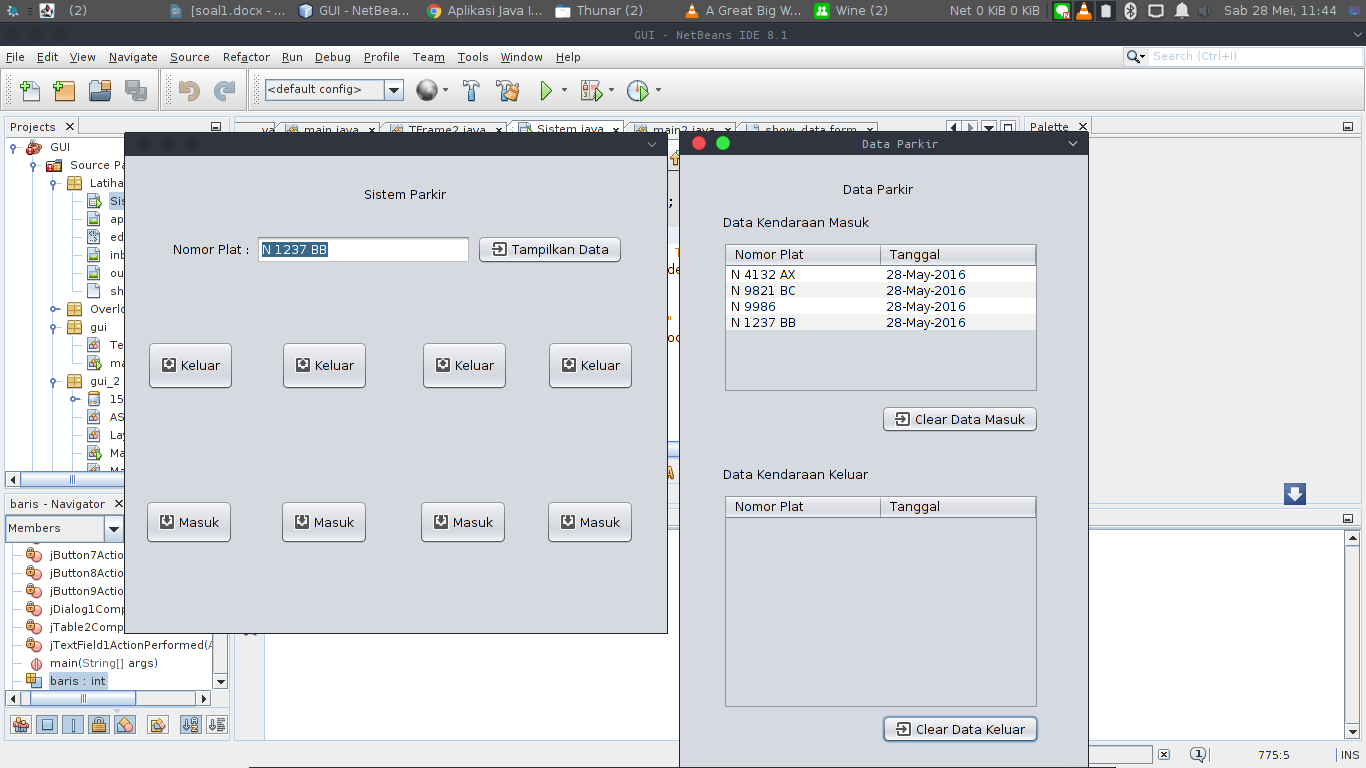
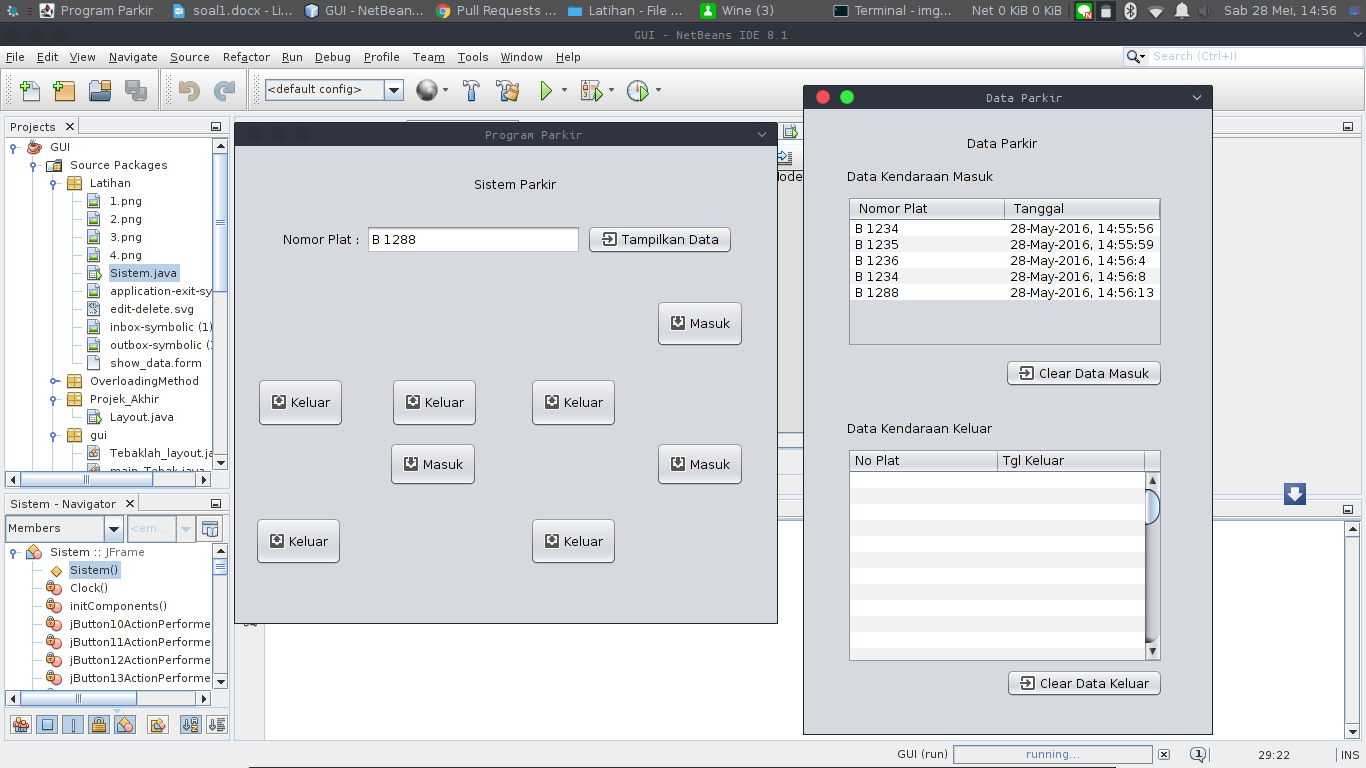
155150201111323_Immanuel Sibarani

diff --git a/Sistem.java b/Sistem.java
@@ -12,19 +12,24 @@ package Latihan;
 import javax.swing.table.DefaultTableModel;
 import java.text.SimpleDateFormat;
 import java.util.Calendar;
+import java.util.Date;
 
 public class Sistem extends javax.swing.JFrame {
-
+   
     String plat[] = new String[8];
     String tanggal[] = new String[8];
     SimpleDateFormat date = new SimpleDateFormat("d-MMM-yyy");
     Calendar calendar = Calendar.getInstance();
+    String time [] = {"","","","","","","",""};
+    String timex;
 
     /**
      * Creates new form Sistem
      */
     public Sistem() {
         initComponents();
+         setTitle("Program Parkir");
+        
     }
 
     /**
@@ -531,15 +536,25 @@ public class Sistem extends javax.swing.JFrame {
         jButton16.setVisible(true);
         jButton14.setVisible(false);
         tanggal[6] = date.format(calendar.getTime());
-        mdl.addRow(new Object[]{plat[6], tanggal[6]});
+        Clock();
+        time[6]=timex;
+        mdl.addRow(new Object[]{plat[6],tanggal[6]+", "+time[6]});
         jTable1.setModel(mdl);
     }//GEN-LAST:event_jButton14ActionPerformed
-
+        private void Clock() {
+        calendar.setTimeInMillis(System.currentTimeMillis());
+        int hours = calendar.get(Calendar.HOUR_OF_DAY);
+        int minutes = calendar.get(Calendar.MINUTE);
+        int seconds = calendar.get(Calendar.SECOND);
+        timex = String.valueOf(hours+":"+minutes+":"+seconds);
+    } 
     private void jButton13ActionPerformed(java.awt.event.ActionEvent evt) {//GEN-FIRST:event_jButton13ActionPerformed
 
         jButton11.setVisible(true);
         jButton13.setVisible(false);
-        mdl2.addRow(new Object[]{plat[5], tanggal[5]});
+        Clock();
+        time[0]=timex;
+        mdl2.addRow(new Object[]{plat[5],tanggal[5]+", "+time[5]});
         jTable2.setModel(mdl2);
 
     }//GEN-LAST:event_jButton13ActionPerformed
@@ -549,7 +564,9 @@ public class Sistem extends javax.swing.JFrame {
         jButton12.setVisible(true);
         jButton10.setVisible(false);
         tanggal[4] = date.format(calendar.getTime());
-        mdl.addRow(new Object[]{plat[4], tanggal[4]});
+        Clock();
+        time[4]=timex;
+        mdl.addRow(new Object[]{plat[4],tanggal[4]+", "+time[4]});
         jTable1.setModel(mdl);
     }//GEN-LAST:event_jButton10ActionPerformed
 
@@ -558,7 +575,9 @@ public class Sistem extends javax.swing.JFrame {
         jButton13.setVisible(true);
         jButton11.setVisible(false);
         tanggal[5] = date.format(calendar.getTime());
-        mdl.addRow(new Object[]{plat[5], tanggal[5]});
+        Clock();
+        time[5]=timex;
+        mdl.addRow(new Object[]{plat[5],tanggal[5]+", "+time[5]});
         jTable1.setModel(mdl);
     }//GEN-LAST:event_jButton11ActionPerformed
 
@@ -566,7 +585,9 @@ public class Sistem extends javax.swing.JFrame {
 
         jButton7.setVisible(true);
         jButton9.setVisible(false);
-        mdl2.addRow(new Object[]{plat[3], tanggal[3]});
+        Clock();
+        time[0]=timex;
+        mdl2.addRow(new Object[]{plat[3],tanggal[3]+", "+time[3]});
         jTable2.setModel(mdl2);
 
     }//GEN-LAST:event_jButton9ActionPerformed
@@ -576,7 +597,9 @@ public class Sistem extends javax.swing.JFrame {
         jButton8.setVisible(true);
         jButton6.setVisible(false);
         tanggal[2] = date.format(calendar.getTime());
-        mdl.addRow(new Object[]{plat[2], tanggal[2]});
+        Clock();
+        time[2]=timex;
+        mdl.addRow(new Object[]{plat[2],tanggal[2]+", "+time[2]});
         jTable1.setModel(mdl);
     }//GEN-LAST:event_jButton6ActionPerformed
 
@@ -585,7 +608,9 @@ public class Sistem extends javax.swing.JFrame {
         jButton9.setVisible(true);
         jButton7.setVisible(false);
         tanggal[3] = date.format(calendar.getTime());
-        mdl.addRow(new Object[]{plat[3], tanggal[3]});
+        Clock();
+        time[3]=timex;
+        mdl.addRow(new Object[]{plat[3],tanggal[3]+", "+time[3]});
         jTable1.setModel(mdl);
 
     }//GEN-LAST:event_jButton7ActionPerformed
@@ -595,18 +620,22 @@ public class Sistem extends javax.swing.JFrame {
         jButton17.setVisible(true);
         jButton15.setVisible(false);
         tanggal[7] = date.format(calendar.getTime());
-        mdl.addRow(new Object[]{plat[7], tanggal[7]});
+        Clock();
+        time[7]=timex;
+        mdl.addRow(new Object[]{plat[7],tanggal[7]+", "+time[7]});
         jTable1.setModel(mdl);
     }//GEN-LAST:event_jButton15ActionPerformed
 
     private void jButton2ActionPerformed(java.awt.event.ActionEvent evt) {//GEN-FIRST:event_jButton2ActionPerformed
         plat[0] = jTextField1.getText();
-
         jButton2.setVisible(false);
         jButton3.setVisible(true);
         tanggal[0] = date.format(calendar.getTime());
-        mdl.addRow(new Object[]{plat[0], tanggal[0]});
+        Clock();
+        time[0]=timex;
+        mdl.addRow(new Object[]{plat[0],tanggal[0]+", "+time[0]});
         jTable1.setModel(mdl);
+        
 
     }//GEN-LAST:event_jButton2ActionPerformed
 
@@ -629,15 +658,20 @@ public class Sistem extends javax.swing.JFrame {
         jButton4.setVisible(false);
         jButton5.setVisible(true);
         tanggal[1] = date.format(calendar.getTime());
-        mdl.addRow(new Object[]{plat[1], tanggal[1]});
+        Clock();
+        time[1]=timex;
+        mdl.addRow(new Object[]{plat[1],tanggal[1]+", "+time[1]});
         jTable1.setModel(mdl);
+        
     }//GEN-LAST:event_jButton4ActionPerformed
 
     private void jButton3ActionPerformed(java.awt.event.ActionEvent evt) {//GEN-FIRST:event_jButton3ActionPerformed
 
         jButton2.setVisible(true);
         jButton3.setVisible(false);
-        mdl2.addRow(new Object[]{plat[0], tanggal[0]});
+        Clock();
+        time[0]=timex;
+        mdl2.addRow(new Object[]{plat[0],tanggal[0]+", "+time[0]});
         jTable2.setModel(mdl2);
 
     }//GEN-LAST:event_jButton3ActionPerformed
@@ -646,7 +680,9 @@ public class Sistem extends javax.swing.JFrame {
 
         jButton4.setVisible(true);
         jButton5.setVisible(false);
-        mdl2.addRow(new Object[]{plat[1], tanggal[1]});
+        Clock();
+        time[1]=timex;
+        mdl2.addRow(new Object[]{plat[1],tanggal[1]+", "+time[1]});
         jTable2.setModel(mdl2);
 
 
@@ -656,7 +692,9 @@ public class Sistem extends javax.swing.JFrame {
 
         jButton6.setVisible(true);
         jButton8.setVisible(false);
-        mdl2.addRow(new Object[]{plat[2], tanggal[2]});
+        Clock();
+        time[2]=timex;
+        mdl2.addRow(new Object[]{plat[2],tanggal[2]+", "+time[2]});
         jTable2.setModel(mdl2);
 
     }//GEN-LAST:event_jButton8ActionPerformed
@@ -665,7 +703,9 @@ public class Sistem extends javax.swing.JFrame {
 
         jButton10.setVisible(true);
         jButton12.setVisible(false);
-        mdl2.addRow(new Object[]{plat[4], tanggal[4]});
+        Clock();
+        time[4]=timex;
+        mdl2.addRow(new Object[]{plat[4],tanggal[4]+", "+time[4]});
         jTable2.setModel(mdl2);
 
     }//GEN-LAST:event_jButton12ActionPerformed
@@ -673,7 +713,9 @@ public class Sistem extends javax.swing.JFrame {
     private void jButton16ActionPerformed(java.awt.event.ActionEvent evt) {//GEN-FIRST:event_jButton16ActionPerformed
         jButton14.setVisible(true);
         jButton16.setVisible(false);
-        mdl2.addRow(new Object[]{plat[6], tanggal[6]});
+        Clock();
+        time[0]=timex;
+        mdl2.addRow(new Object[]{plat[6],tanggal[6]+", "+time[6]});
         jTable2.setModel(mdl2);
 
     }//GEN-LAST:event_jButton16ActionPerformed
@@ -682,7 +724,9 @@ public class Sistem extends javax.swing.JFrame {
 
         jButton15.setVisible(true);
         jButton17.setVisible(false);
-        mdl2.addRow(new Object[]{plat[7], tanggal[7]});
+        Clock();
+        time[0]=timex;
+        mdl2.addRow(new Object[]{plat[7],tanggal[7]+", "+time[7]});
         jTable2.setModel(mdl2);
 
     }//GEN-LAST:event_jButton17ActionPerformed
